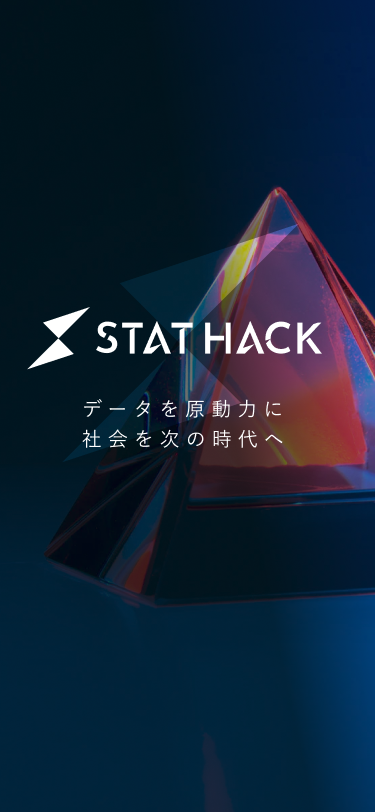
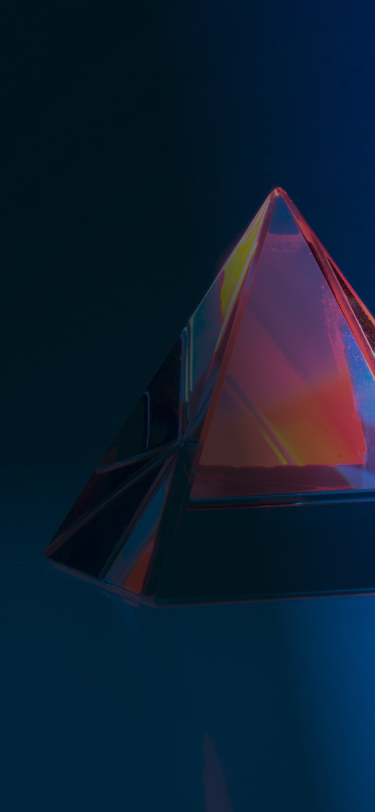
[update] fv

diff --git a/app/pages/index.tsx b/app/pages/index.tsx
@@ -18,7 +18,7 @@ export const Home = (): JSX.Element => {
         <script src="https://sdk.form.run/js/v2/formrun.js"></script>
       </Head>
 
-      <header className="text-white body-font bg-sp-fv md:bg-fv bg-no-repeat bg-cover bg-center h-90vh md:h-50vh lg:h-90vh">
+      <header className="text-white body-font bg-sp-fv md:bg-fv bg-no-repeat bg-cover bg-center h-screen md:h-50vh lg:h-screen">
         <div className="container mx-auto flex flex-wrap py-8 lg:py-16 flex-col md:flex-row items-center px-8 xl:px-16">
           <div className="flex title-font font-medium items-center text-gray-900 mb-4 md:mb-0 mx-auto xl:w-96">
             <img className="hidden lg:block" src="/images/logo_white.svg" alt="Logo" height={'64'} width={'300'} />
@@ -61,7 +61,32 @@ export const Home = (): JSX.Element => {
             </div>
             
           }
-        
+        </div>
+        <div className="flex flex-wrap content-center md:h-40vh lg:h-70vh">
+        <div className="container relative mx-auto my-auto md:h-20vh lg:h-50vh py-8 lg:py-16 flex-col md:flex-row items-center px-8 xl:px-16">
+          <img className="absolute top-48 my-auto hidden lg:block" src="/images/logo_white.svg" alt="Logo" height={'140'} width={'800'} />
+          <img className="absolute left-28 ml-20 top-10 my-auto mix-blend-overlay hidden lg:block" src="/images/logo_symbol.svg" alt="Logo" height={'140'} width={'500'} />
+          
+          <img className="absolute top-0 my-auto hidden md:block lg:hidden" src="/images/logo_white.svg" alt="Logo" height={'140'} width={'600'} />
+          <img className="absolute left-28 ml-10 -top-20 my-auto mix-blend-overlay hidden md:block lg:hidden" src="/images/logo_symbol.svg" alt="Logo" height={'140'} width={'300'} />
+
+          <img className="absolute top-40 my-auto md:hidden" src="/images/logo_white.svg" alt="Logo" height={'140'} width={'300'} />
+          <img className="absolute left-12 top-20 my-auto mix-blend-overlay md:hidden" src="/images/logo_symbol.svg" alt="Logo" height={'140'} width={'250'} />
+          
+          {
+            locale == "ja" ?
+            <h2 className="absolute hidden md:block md:top-32 lg:top-96 my-auto text-3xl xl:text-4xl font-jp tracking-mission ml-10" >{ t.header.mission}</h2>
+            :
+            <h2 className="absolute hidden md:block md:top-32 lg:top-96 my-auto text-3xl xl:text-4xl font-en tracking-wide ml-5" >{ t.header.mission}</h2>
+          }
+            
+          {
+            locale == "ja" ?
+            <h2 className="absolute top-64 md:hidden my-auto text-xl font-jp tracking-mission ml-10" >{t.header.mission_sp.former}<br />{ t.header.mission_sp.latter}</h2>
+            :
+            <h2 className="absolute top-64 md:hidden my-auto text-xl font-en tracking-wide ml-5" >{t.header.mission_sp.former}<br />{ t.header.mission_sp.latter}</h2>
+          }
+        </div>
         </div>
       </header>
 

diff --git a/app/tailwind.config.js b/app/tailwind.config.js
@@ -28,7 +28,14 @@ module.exports = {
       },
       height: {
         '90vh': '90vh',
+        '70vh': '70vh',
         '50vh': '50vh',
+        '40vh': '40vh',
+        '30vh': '30vh',
+        '20vh': '20vh',
+      },
+      letterSpacing: {
+        'mission': '.25em'
       }
     },
     fontFamily: {
